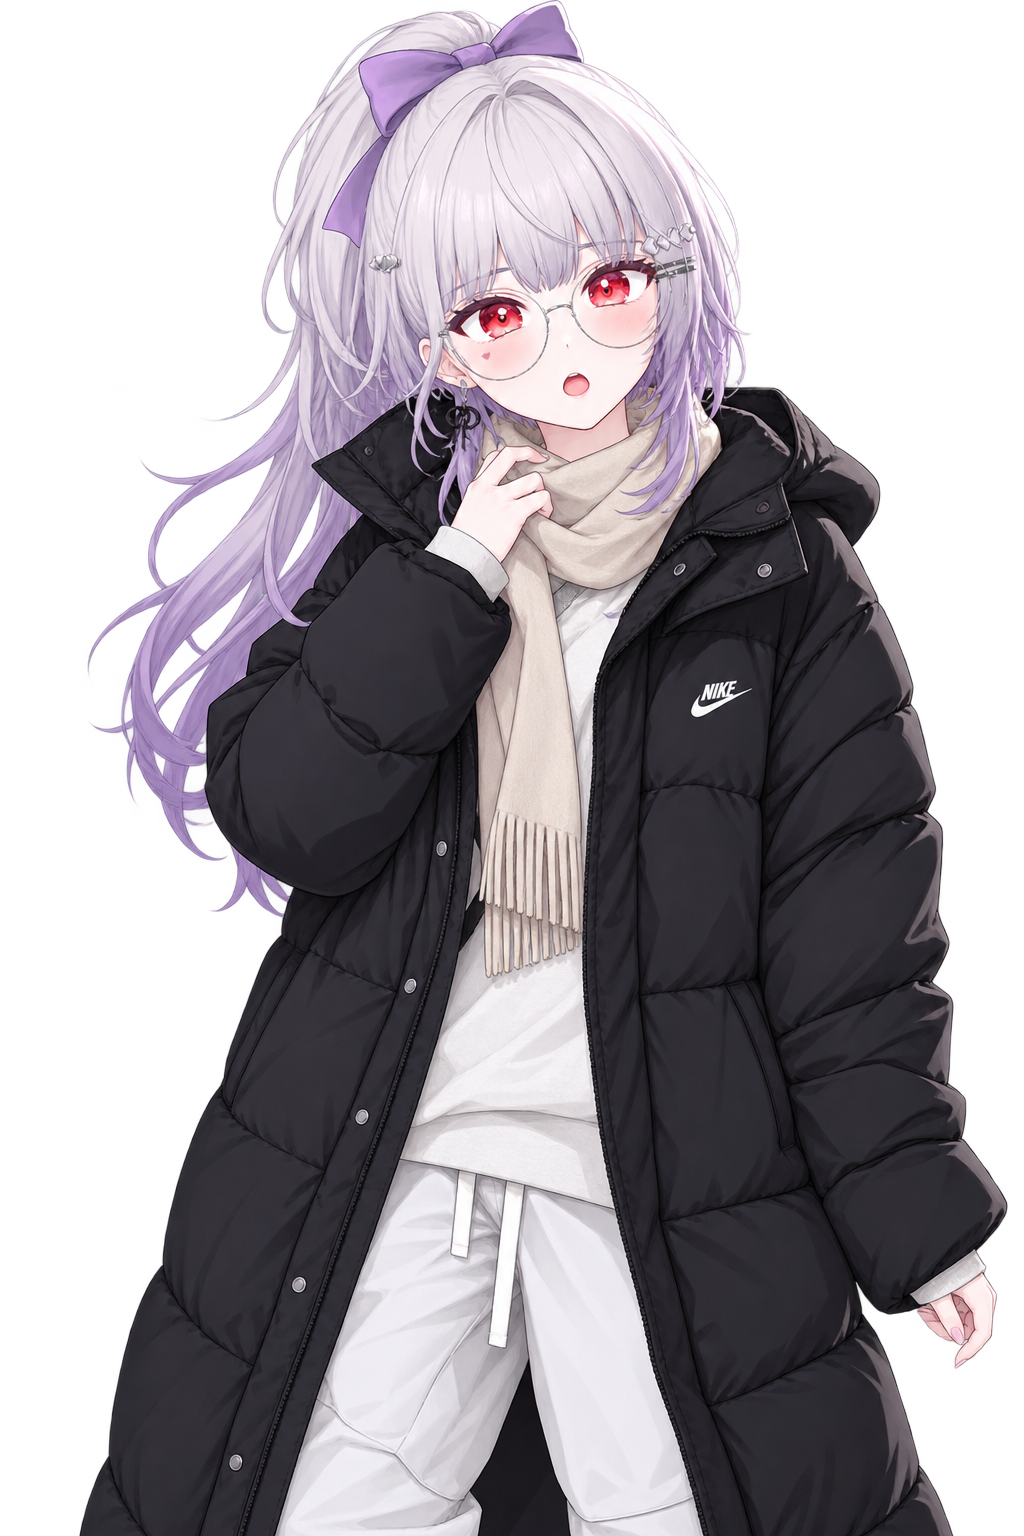
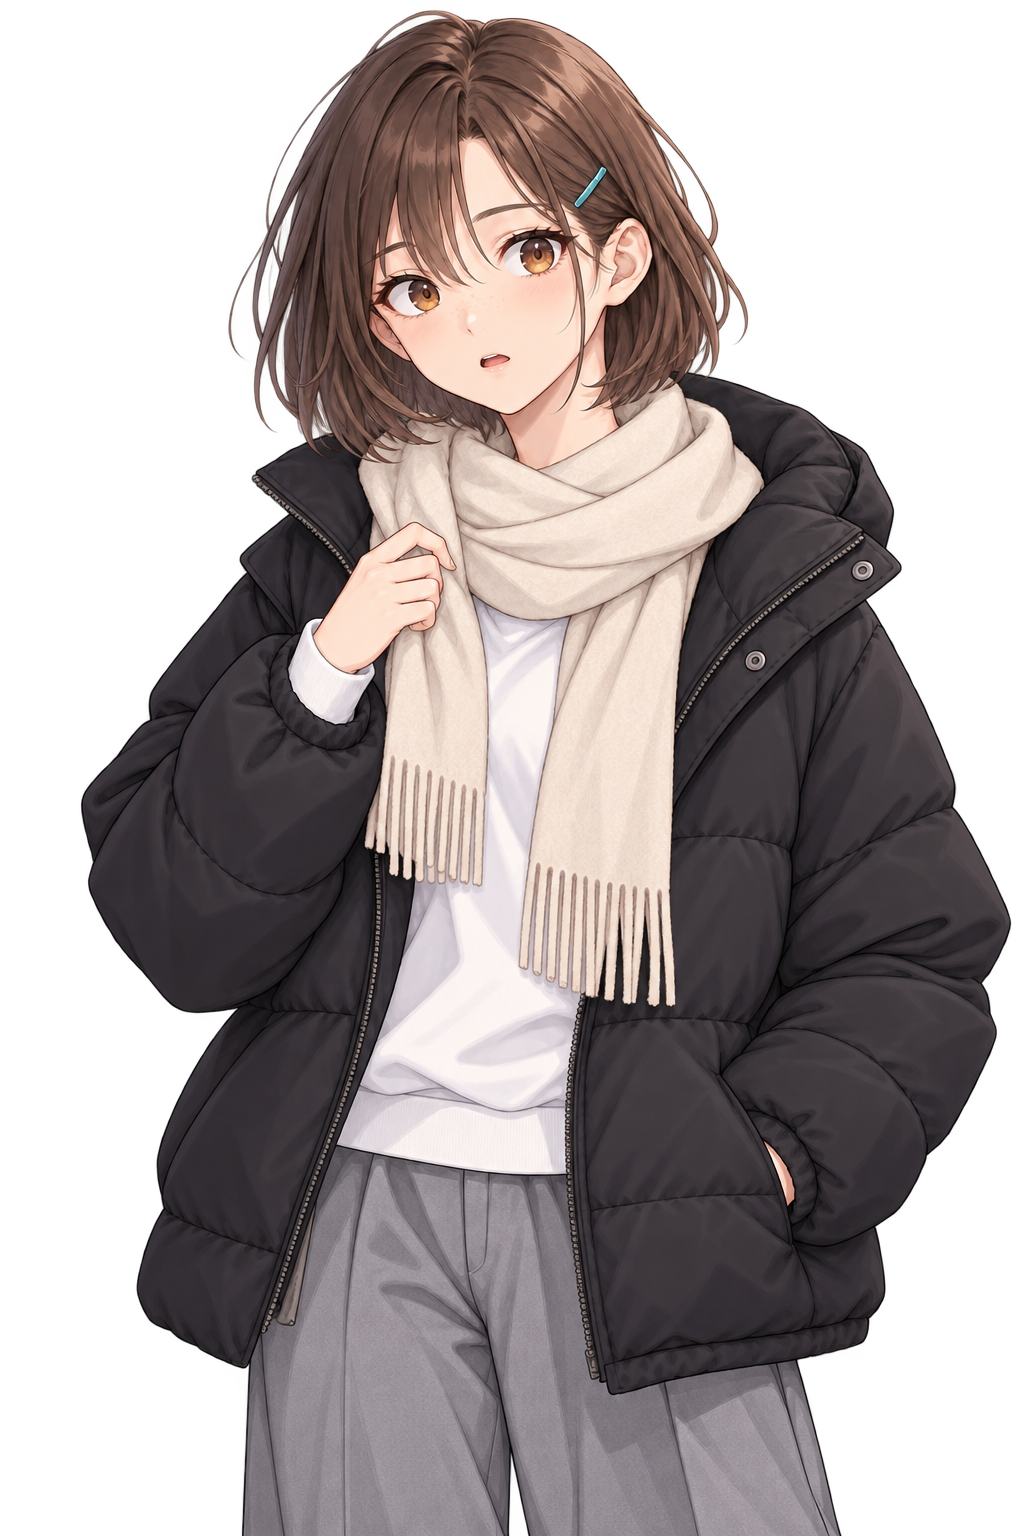
CH16 편한 의상 스탠딩 일러스트 교체

diff --git a/docs/illustration-replacement-prompts.md b/docs/illustration-replacement-prompts.md
@@ -149,16 +149,18 @@ CG는 공통 CG 블록과 파일별 장면 프롬프트를 이어 붙인다. 무
 
 ### CH16 자유 의상 C16 세트
 
-의상 블록: 무지 검정 겨울 패딩, 흰색 스웨트셔츠, 부드러운 연베이지 목도리, 긴 회색 바지, 겨울 외출에 맞는 단정한 신발. 브랜드 표시는 없다.
+공통 구도: 머리 위부터 무릎 바로 위까지 보이는 무릎 위 크롭.
+
+의상 블록: 편하게 여유 있는 무지 검정 겨울 패딩, 흰색 스웨트셔츠, 부드러운 연베이지 목도리, 편안한 긴 회색 바지, 겨울 외출용 신발. 예쁘거나 몸에 맞는 핏을 강조하지 않고 실제로 따뜻하고 편하게 입은 느낌으로 표현한다. 브랜드 표시는 없다.
 
 | 파일 | 개별 표정·포즈 프롬프트 |
 |---|---|
-| [C16-1.png](../assets/standing/C16-1.png) | 차분한 표정, 목도리 한쪽을 살짝 잡고 어깨를 편안하게 내린다. |
-| [C16-2.png](../assets/standing/C16-2.png) | 겨울 약속이 반가운 미소, 눈가가 부드럽게 접히고 손으로 목도리를 정리한다. |
-| [C16-3.png](../assets/standing/C16-3.png) | 누군가 불러 돌아보며 놀란 눈빛, 패딩 깃을 살짝 움켜쥔다. |
+| [C16-1.png](../assets/standing/C16-1.png) | 차분한 표정, 목도리 한쪽을 잡고 다른 손은 패딩 주머니에 넣는다. |
+| [C16-2.png](../assets/standing/C16-2.png) | 겨울 약속이 반가운 미소, 한 손으로 목도리를 정리하고 다른 손은 주머니에 둔다. |
+| [C16-3.png](../assets/standing/C16-3.png) | 누군가 불러 돌아보며 놀란 눈빛, 한 손으로 패딩 깃을 살짝 잡는다. |
 | [C16-4.png](../assets/standing/C16-4.png) | 추위와 설렘에 볼이 붉어지고 목도리 위로 눈만 살짝 내민다. |
-| [C16-5.png](../assets/standing/C16-5.png) | 약속을 걱정하는 눈빛, 두 손으로 목도리를 감싸 쥐고 어깨를 조금 움츠린다. |
-| [C16-6.png](../assets/standing/C16-6.png) | 추운 날씨를 투덜대는 듯한 새침한 표정, 곁눈질하며 목도리를 고쳐 맨다. |
+| [C16-5.png](../assets/standing/C16-5.png) | 약속을 걱정하는 눈빛, 목도리를 한 손으로 감싸 쥐고 어깨를 조금 움츠린다. |
+| [C16-6.png](../assets/standing/C16-6.png) | 추운 날씨를 투덜대는 듯한 새침한 표정, 곁눈질하며 한 손으로 목도리를 고쳐 맨다. |
 
 ### CH16 꾸민 의상 P16 세트
 
@@ -266,4 +268,4 @@ CG는 공통 CG 블록과 파일별 장면 프롬프트를 이어 붙인다. 무
 - 이미지 모델이 만든 문자·로고·워터마크는 제거하고, 필요한 문구는 별도로 편집한다.
 - 인물 외형 참조에는 승인된 공통 캐릭터 기준 이미지만 사용한다. 사용자가 특정 의상 참고 이미지를 제공한 경우에는 지정된 의상 형태만 참고하고 얼굴·머리·포즈·배경은 복사하지 않는다. 결과가 새 공통 캐릭터 기준과 다르면 해당 파일을 다시 생성한다.
 
-이 문서는 교체 대상의 프롬프트와 파일 대응표다. S·W·G·A·C1·P1·C13·P13 스탠딩 세트의 생성과 파일 교체를 완료했으며, 나머지 이미지는 작업별로 진행한다.
+이 문서는 교체 대상의 프롬프트와 파일 대응표다. S·W·G·A·C1·P1·C13·P13·C16 스탠딩 세트의 생성과 파일 교체를 완료했으며, 나머지 이미지는 작업별로 진행한다.
